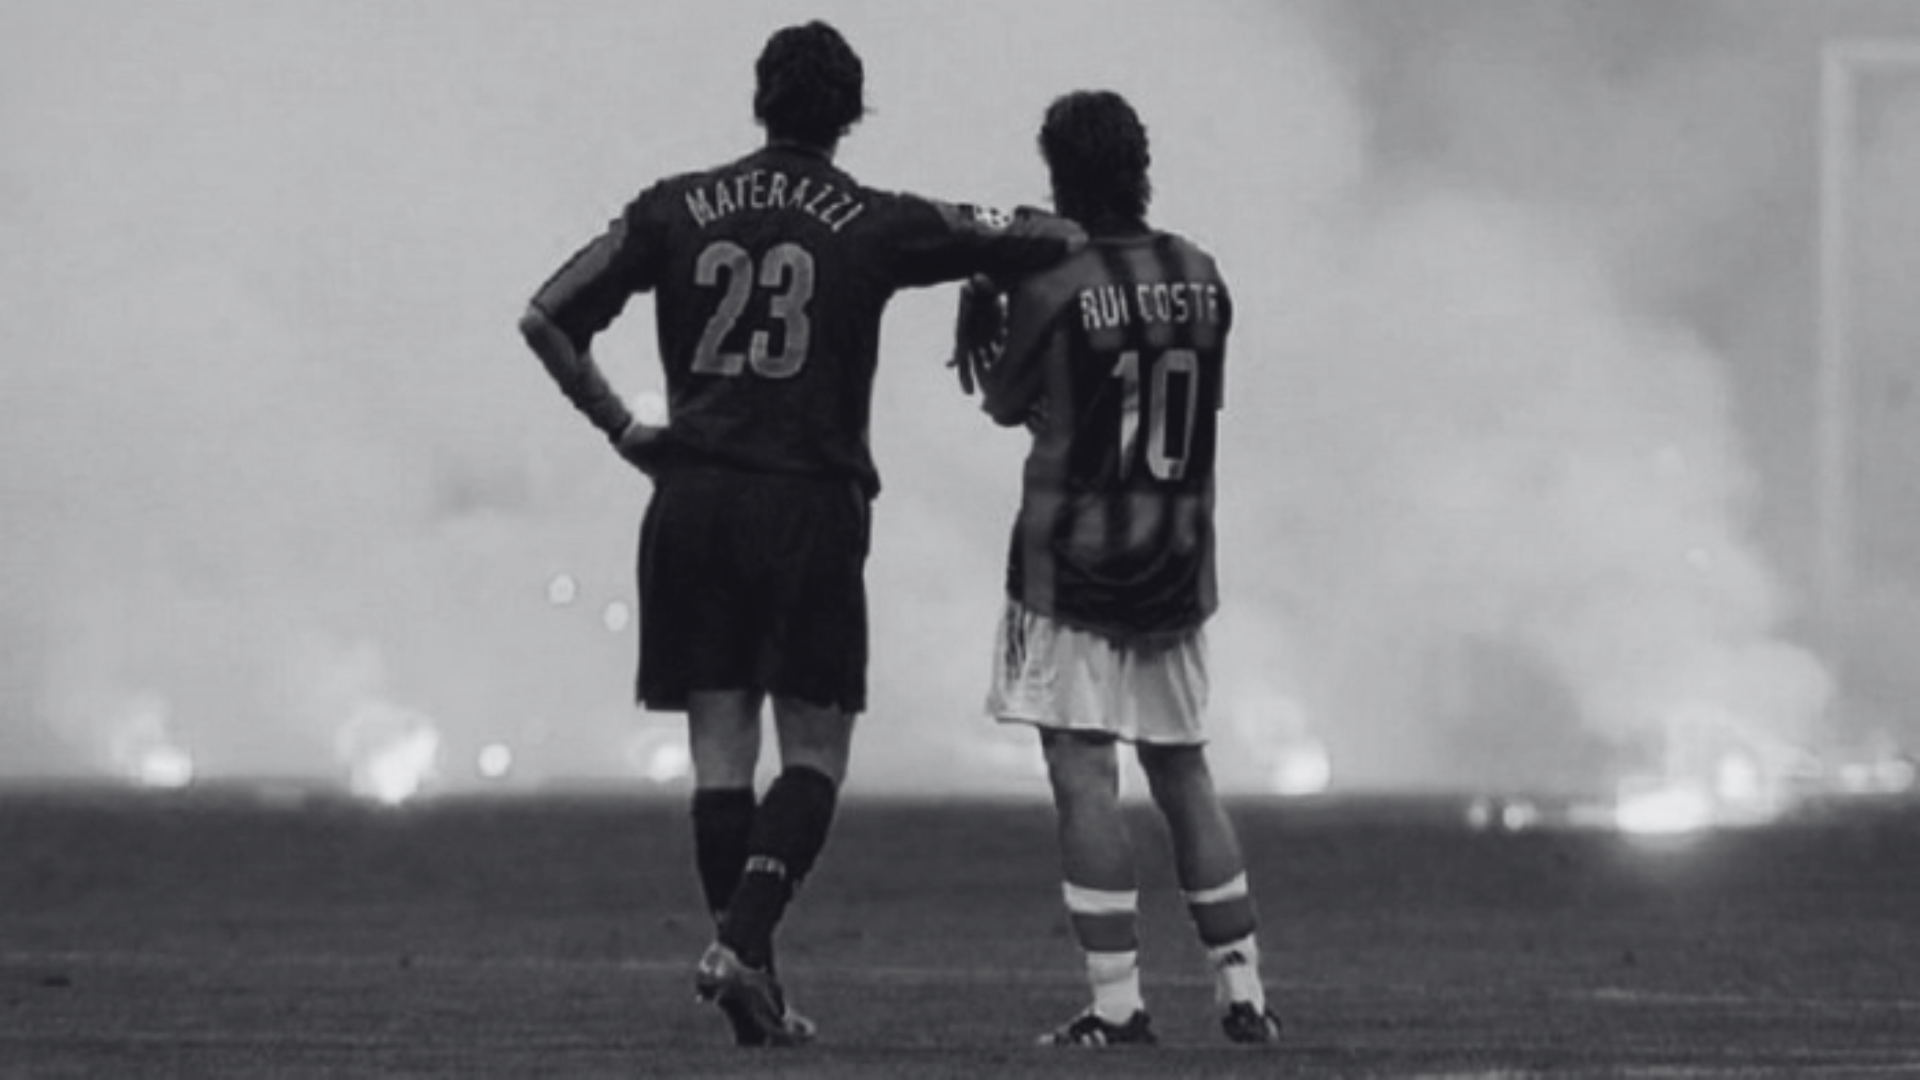
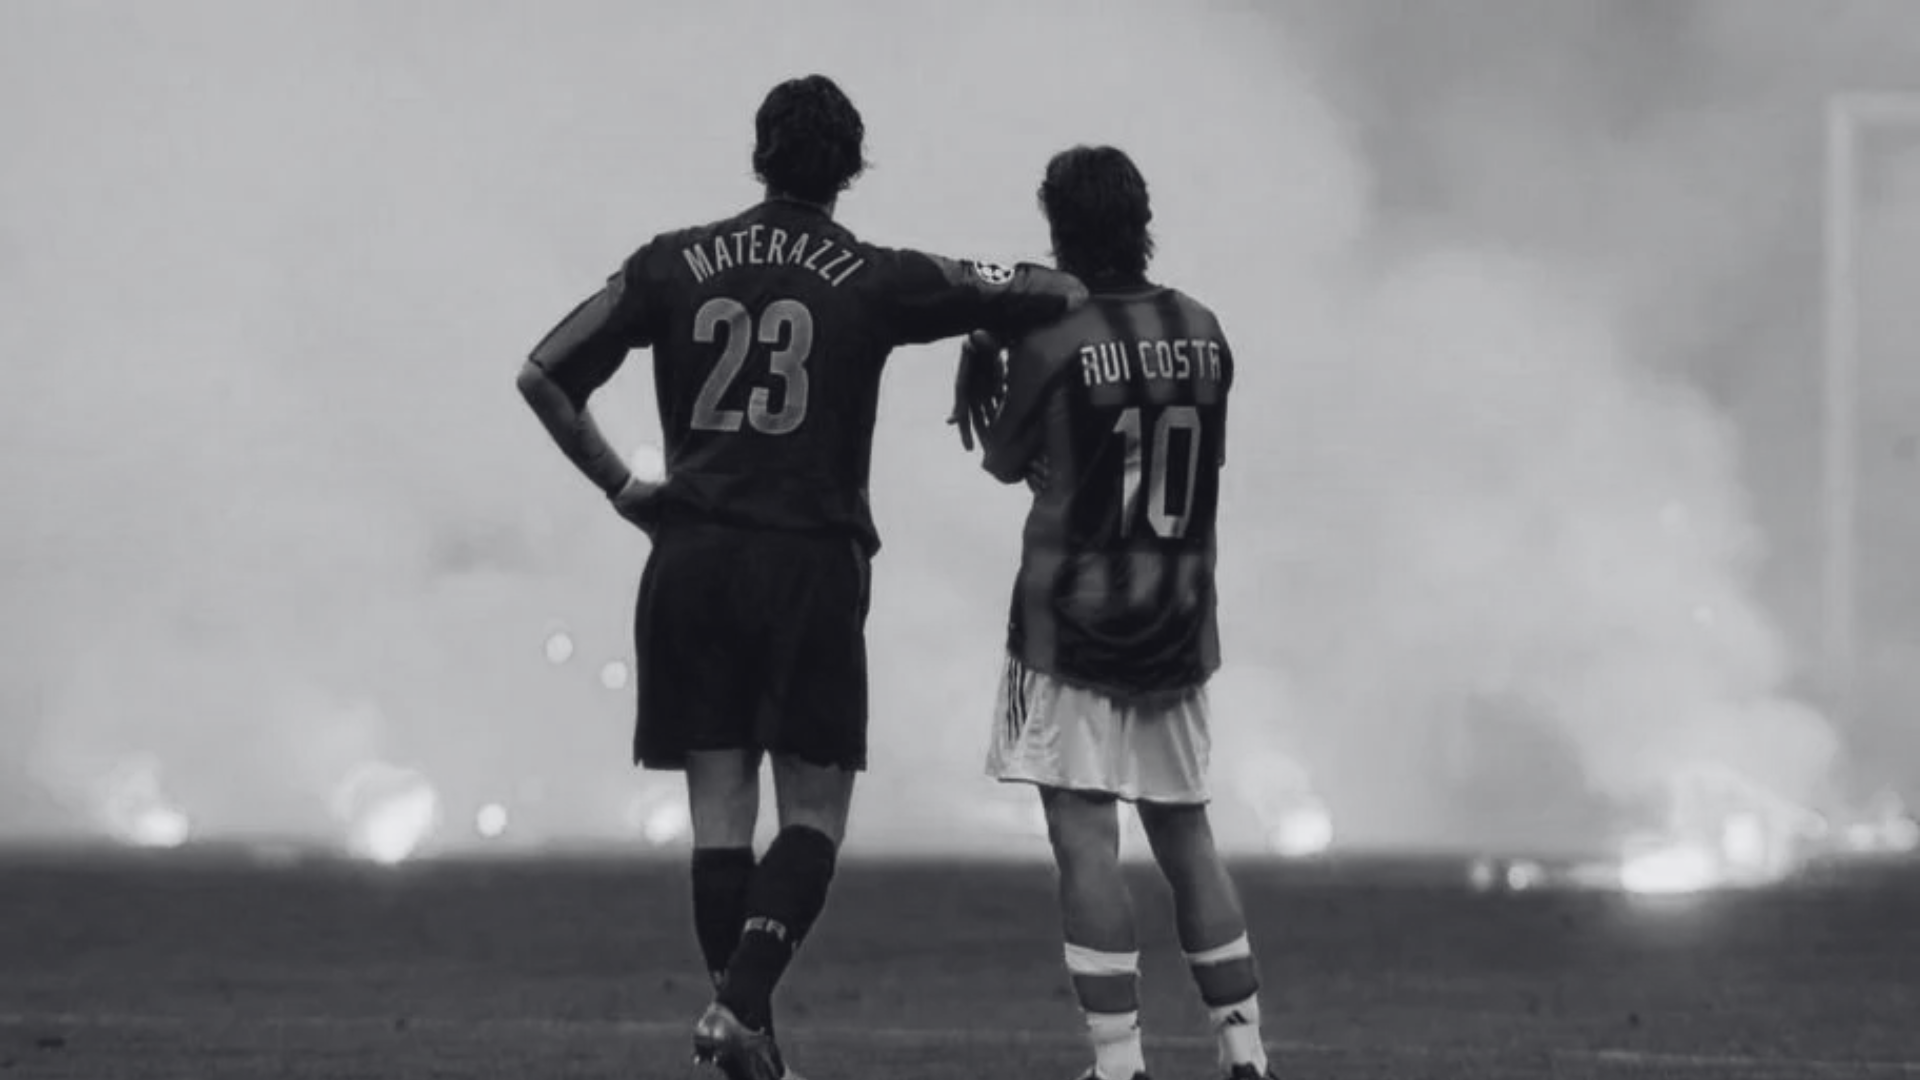
Dynamic backgrounds

diff --git a/assets/js/script.js b/assets/js/script.js
@@ -1,3 +1,4 @@
+var body = document.querySelector("body");
 var startBtn = document.getElementById("start-quiz-button");
 var h1Text = document.querySelector("h1");
 var h3Text = document.querySelector("h3");
@@ -6,7 +7,7 @@ var highscores = document.querySelector("#highscores");
 var main = document.querySelector("main");
 
 var timeEl = document.createElement("p");
-var h2Text = document.createElement("h2");
+var askedQuestion = document.createElement("h2");
 var listEl = document.createElement("ul");
 var answerOutputEl = document.createElement("div");
 var gameOverText = document.createElement("p");
@@ -19,11 +20,13 @@ var startMenu = document.createElement("button");
 var clearHighScores = document.createElement("button");
 var inputHighScore = document.createElement("input");
 var highscoreTable = document.createElement("table");
-var noHighScores = document.createElement("p")
+var noHighScores = document.createElement("p");
 
 inputHighScore.setAttribute("id", "highScoreName");
+askedQuestion.setAttribute("class", "questionAsked");
+timeEl.setAttribute("class", "timer")
 
-mainSection.append(h2Text);
+mainSection.append(askedQuestion);
 mainSection.append(listEl);
 mainSection.append(answerOutputEl);
 mainSection.append(feedBackAnswer);
@@ -39,8 +42,6 @@ var timeLeft,
 var userArr = [];
 var scoresArr = [];
 var sortable = [];
-
-//localStorage.clear();
 
 var questions = [
   (qOne = {
@@ -174,8 +175,8 @@ var questions = [
   }),
   (qTwenty = {
     question: "Which of these teams is not from London?",
-    answers: ["Arsenal", "Brentford FC", "Crystal Palace", "Watford"],
-    correctAnswer: "Watford",
+    answers: ["Arsenal", "Brentford FC", "Crystal Palace", "Watford FC"],
+    correctAnswer: "Watford FC",
   }),
   (qTwentyOne = {
     question: "Which of these teams is not from Madrid?",
@@ -189,6 +190,11 @@ var questions = [
     correctAnswer: "Genoa",
   }),
 ];
+
+//Generating a new background
+bgSelect = Math.floor(Math.random() * 20);
+console.log("bg"+bgSelect);
+body.classList.add("bg"+bgSelect)
 
 function correctAnswer() {
   clearInterval(timeInterval);
@@ -301,7 +307,7 @@ function gameOver() {
   inputHighScore.classList.remove("hidden");
   resetGame.classList.add("hidden");
   startMenu.classList.add("hidden");
-  h2Text.textContent = "";
+  askedQuestion.textContent = "";
   listEl.textContent = "";
   timeEl.textContent = "";
   answerOutputEl.textContent = "";
@@ -387,7 +393,11 @@ function startQuiz() {
 
 function diplayQuestion() {
   countdown();
+  body.classList.remove("bg"+bgSelect)
   qCounter++;
+  bgSelect = Math.floor(Math.random() * 20);
+  console.log("bg"+bgSelect);
+  body.classList.add("bg"+bgSelect)
   console.log(qCounter);
   score.textContent = "";
   answerOutputEl.textContent = "";
@@ -400,7 +410,7 @@ function diplayQuestion() {
   } else {
     arrayindex = Math.floor(Math.random() * questionsArray.length);
     console.log(arrayindex);
-    h2Text.textContent = questionsArray[arrayindex].question;
+    askedQuestion.textContent = questionsArray[arrayindex].question;
     listEl.textContent = "";
     for (item of questionsArray[arrayindex].answers) {
       console.log(item);
@@ -458,7 +468,7 @@ function watchScores() {
     startMenu.classList.remove("hidden");
     highscoreTable.remove();
     var highScoreSection = document.createElement("section");
-    
+
     main.append(highScoreSection);
     noHighScores.textContent = "No High Scores Registered";
     clearHighScores.textContent = "Clear High Scores";
@@ -497,7 +507,6 @@ function watchScores() {
     sortingScores();
     tableGeneration();
   }
-
 }
 
 startBtn.addEventListener("click", startQuiz);

diff --git a/assets/css/styles.css b/assets/css/styles.css
@@ -8,8 +8,8 @@
 
 body {
   background-color: gray;
-  background-image: url(../images/goat.png);
   background-size: cover;
+  background-position: top;
 }
 
 nav {
@@ -26,7 +26,6 @@ header ul {
 }
 
 section {
-  margin-top: 10%;
   position: relative;
   display: block;
   text-align: center;
@@ -53,15 +52,18 @@ input {
 }
 
 .title {
+  margin-top: 20%;
   font-size: 6rem;
   margin-bottom: 1rem;
   color: white;
+  text-shadow: 8px 8px 16px black;
 }
 
 .subtitle {
   font-size: 3rem;
-  margin-bottom: 1rem;
+  margin-bottom: 3rem;
   color: white;
+  text-shadow: 16px 16px 32px black;
 }
 
 #start-quiz-button {
@@ -83,4 +85,101 @@ button {
   color: white;
 }
 
+.questionAsked {
+  margin-top: 5%;
+  font-size: 2.5rem;
+  color: white;
+  text-shadow: 32px 32px 64px black;
+}
+
+.timer {
+  margin-top: 2rem;
+  font-size: 2.5rem;
+  color: white;
+  text-shadow: 32px 32px 64px black;
+}
+
+
+
+
 /* Background Styles */
+.bg0 {
+  background-image: url(../images/goat.png);
+}
+
+.bg1 {
+  background-image: url(../images/uclfinal.png);
+}
+
+.bg2 {
+  background-image: url(../images/depression.png);
+}
+
+.bg3 {
+  background-image: url(../images/goats.png);
+}
+
+.bg4 {
+  background-image: url(../images/jogabonito.png);
+}
+
+.bg5 {
+  background-image: url(../images/lpool.png);
+}
+
+.bg6 {
+  background-image: url(../images/magic.png);
+}
+
+.bg7 {
+  background-image: url(../images/portrait.png);
+}
+
+.bg8 {
+  background-image: url(../images/ranieri.png);
+}
+
+.bg9 {
+  background-image: url(../images/rossonero.png);
+}
+
+.bg10 {
+  background-image: url(../images/war.png);
+}
+
+.bg11 {
+  background-image: url(../images/cheat.png);
+}
+
+.bg12 {
+  background-image: url(../images/flyingdutch.png);
+}
+
+.bg13 {
+  background-image: url(../images/greatness.png);
+}
+
+.bg14 {
+  background-image: url(../images/happiness.png);
+}
+
+.bg15 {
+  background-image: url(../images/ibelongtojesus.png);
+}
+
+.bg16 {
+  background-image: url(../images/legends.png);
+}
+
+.bg17 {
+  background-image: url(../images/lifesaver.png);
+}
+
+.bg18 {
+  background-image: url(../images/sadness.png);
+}
+
+.bg19 {
+  background-image: url(../images/thanks.png);
+}
+

diff --git a/index.html b/index.html
@@ -5,7 +5,7 @@
     <meta http-equiv="X-UA-Compatible" content="IE=edge" />
     <meta name="viewport" content="width=device-width, initial-scale=1.0" />
     <title>Football Quiz</title>
-    <link rel="icon" type="image/x-icon" href="assets/images/HFQ.png" />
+    <link rel="icon" type="image/x-icon" href="#" />
     <link rel="stylesheet" href="assets/css/styles.css" />
     <script src="assets/js/script.js" defer></script>
   </head>
